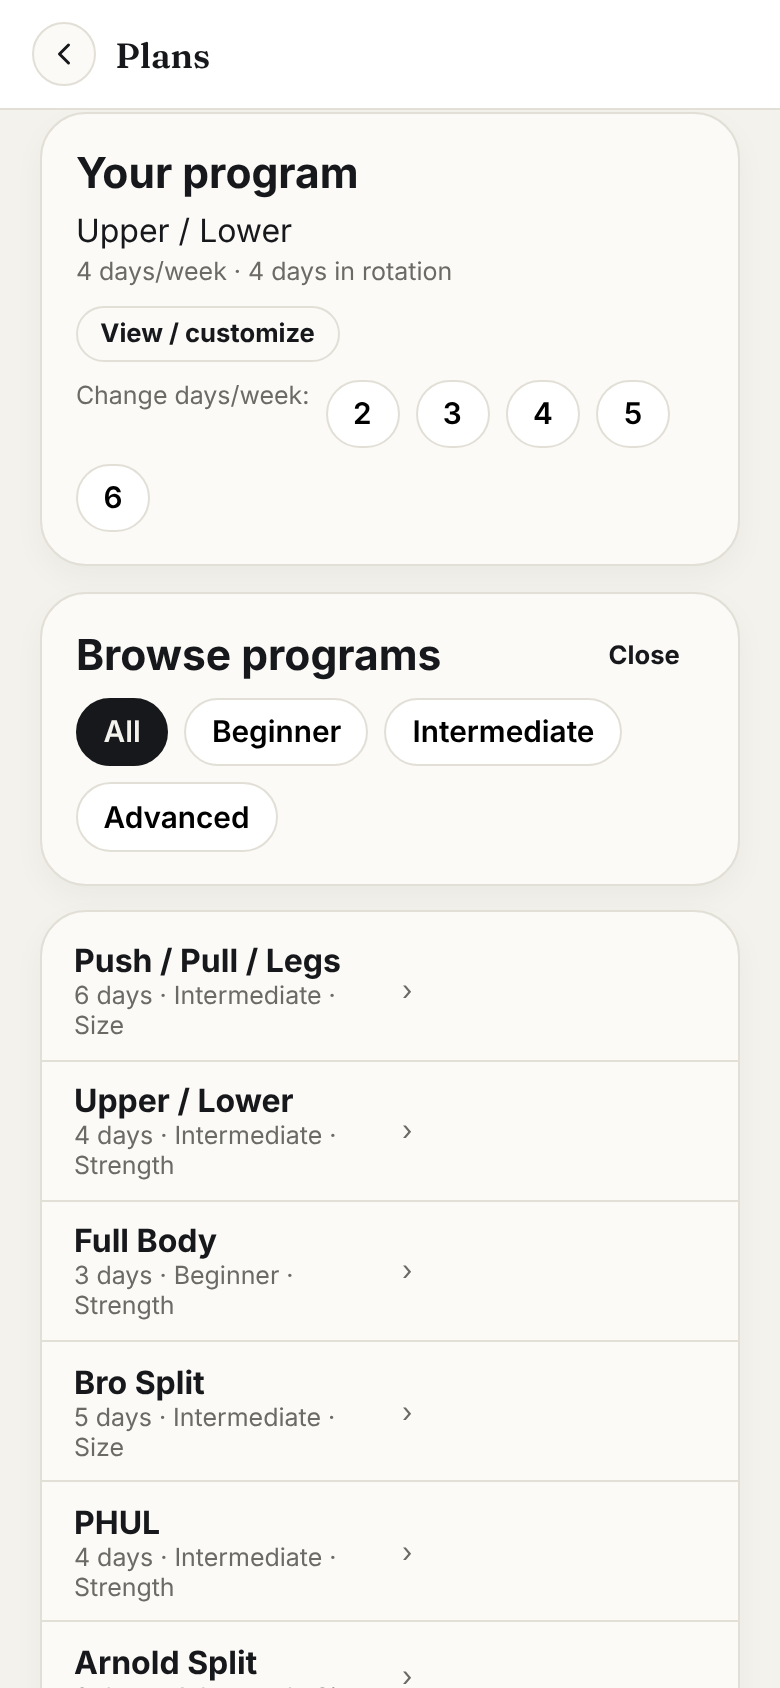
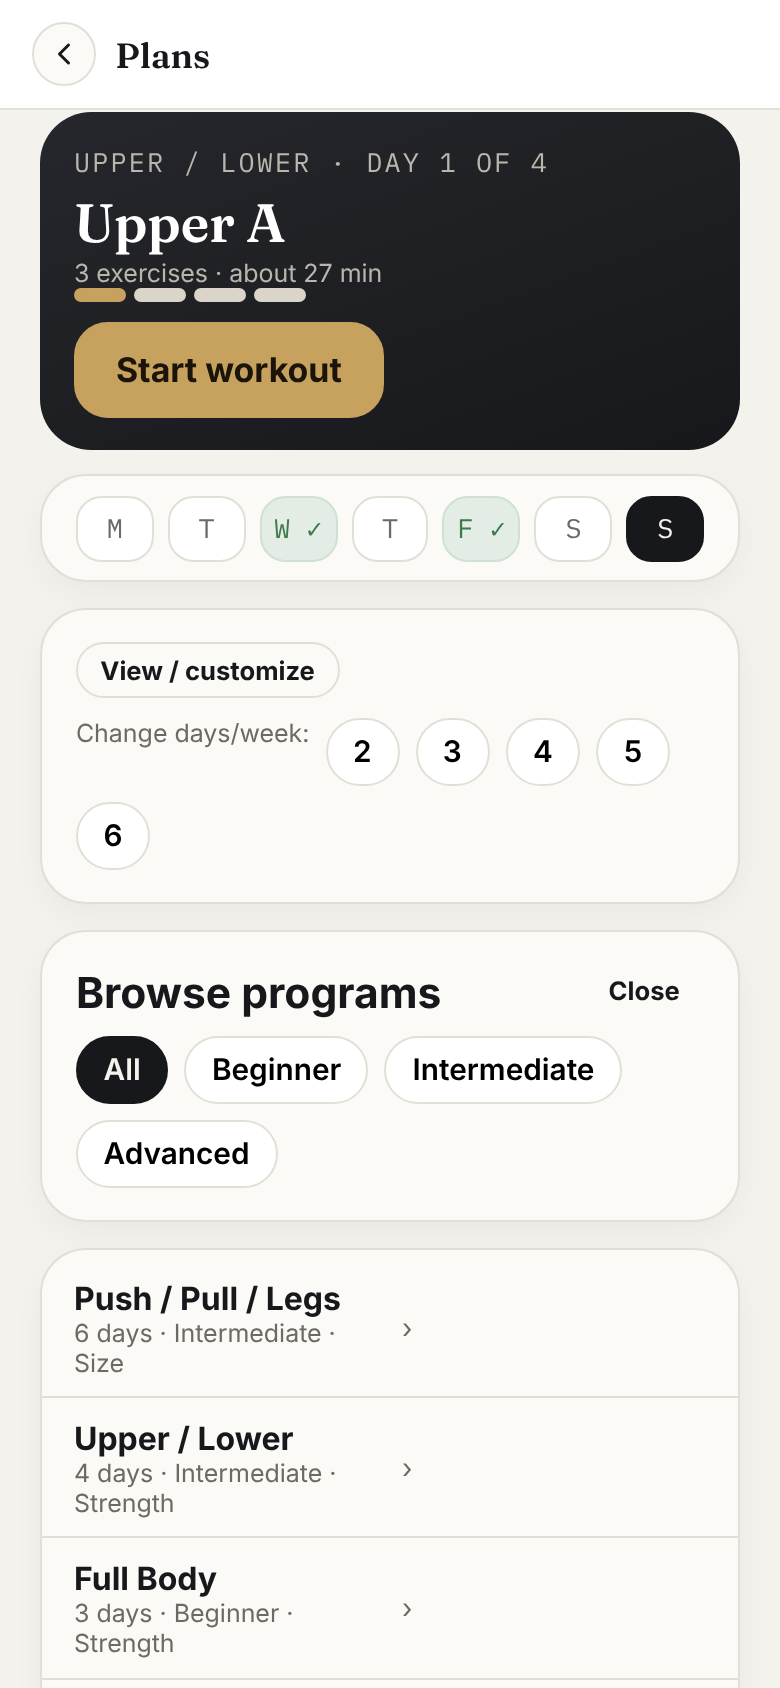
Fidelity pass: Section 2 (Plans) - dark hero card, week strip, day dots, program preview restructure
Plans hub "Your program" card rebuilt as a dark gradient hero (component
I/J: week strip + day-rotation dots) with a gold Start/Continue button
wired through the same startOrContinueWorkoutFromCard() path as Today's
card, matching the mockup's structure instead of a plain stat card.

Program preview (browsing a template) restructured from an inline full
exercise dump per day into compact day-summary cards (muscle regions +
exercise count) that expand on tap, plus equipment chips derived from
the exercise catalog - matches the mockup's drill-in convention instead
of dumping every set/rep row up front.

Claude-Session: https://claude.ai/code/session_015L9cyNh1v2vMK9ZcFbmR4a

diff --git a/index.html b/index.html
@@ -891,6 +891,26 @@
   .ring-progress::after { content: attr(data-t); position: absolute; inset: 0.27rem; border-radius: 50%; background: var(--surface-2); display: flex; align-items: center; justify-content: center; }
   .ring-none { background: var(--surface-3); color: var(--text-dim); }
 
+  /* Week strip (component I): 7 cells, mockup 9.5px mono, radius 9px,
+     gap 5px, x1.4234. Today = ink fill; done = ok-green fill. */
+  .week-strip { display: flex; gap: 0.44rem; }
+  .week-strip > div { flex: 1; text-align: center; font-family: var(--font-mono); font-size: 0.84rem; font-weight: 500;
+    padding: 0.4rem 0; border-radius: 0.8rem; background: #fff; border: 1px solid var(--border); color: var(--text-dim); }
+  .week-strip > div.wk-today { background: var(--text); color: var(--bg); border-color: var(--text); }
+  .week-strip > div.wk-done { background: #E3EDE6; color: var(--success); border-color: #CFE0D4; }
+
+  /* Day dots (component J): rotation-position indicator on a program's
+     dark hero card. Mockup 18x5px, radius 3px, x1.4234. */
+  .day-dots { display: flex; gap: 0.28rem; }
+  .day-dots i { width: 1.6rem; height: 0.44rem; border-radius: 0.27rem; background: #DAD5C8; display: block; font-style: normal; }
+  .day-dots i.dd-done { background: var(--accent); }
+  .day-dots i.dd-next { background: var(--gold); }
+
+  /* Dark hero card (used for the active-program summary) - mockup
+     linear-gradient(160deg,#25272C,#17181B), radius 18px x1.4234 -> 26px. */
+  .dark-hero-card { background: linear-gradient(160deg, #25272C, #17181B); color: #fff; border-radius: 1.6rem; padding: 1rem 1.06rem; margin-bottom: 0.8rem; }
+  .dark-hero-card .muted { color: #B9B6AD; }
+
   /* ── Lists ────────────────────────────────────────────────────── */
   .log-row { display: flex; align-items: center; justify-content: space-between; padding: 0.6rem 0; border-bottom: 1px solid var(--border); gap: 0.75rem; }
   .log-row:last-child { border-bottom: none; }
@@ -4911,6 +4931,51 @@ function homeWidgetHtml(key, ctx) {
 // card, not a second copy of that breakdown.
 let todaysLiftChangeMenuOpen = false;
 
+// Shared by Today's Lift card and the Plans hub's active-program card -
+// same "jump into the live workout, program never required" behavior
+// wherever a "Start"/"Continue" button for today's lift appears.
+// Week strip (component I): this calendar week, Mon-Sun, which days have
+// a logged lift and which is today.
+function weekStripHtml() {
+  const todayStr = localDateStr();
+  const base = new Date(`${todayStr}T00:00:00`);
+  const monday = new Date(base);
+  monday.setDate(base.getDate() - ((base.getDay() + 6) % 7));
+  const loggedDates = new Set(state.lifts.map((l) => l.date));
+  const labels = ['M', 'T', 'W', 'T', 'F', 'S', 'S'];
+  return `<div class="week-strip">${labels.map((lbl, i) => {
+    const cellDate = new Date(monday);
+    cellDate.setDate(monday.getDate() + i);
+    const cellStr = localDateStr(cellDate);
+    const isToday = cellStr === todayStr;
+    const isDone = loggedDates.has(cellStr);
+    const cls = isToday ? 'wk-today' : (isDone ? 'wk-done' : '');
+    return `<div class="${cls}">${lbl}${isDone ? ' &#10003;' : ''}</div>`;
+  }).join('')}</div>`;
+}
+
+// Day dots (component J): position within the block's rotation - days
+// before today's index read as completed rounds, today's index as next.
+function dayDotsHtml(block, todaysDayIndex) {
+  if (!block?.blockDays?.length || todaysDayIndex == null) return '';
+  return `<div class="day-dots">${block.blockDays.map((_, i) => {
+    const cls = i < todaysDayIndex ? 'dd-done' : (i === todaysDayIndex ? 'dd-next' : '');
+    return `<i class="${cls}"></i>`;
+  }).join('')}</div>`;
+}
+
+function startOrContinueWorkoutFromCard() {
+  showPlanBuilder = false;
+  showBlockBuilder = false;
+  showExerciseGlossary = false;
+  showPlansHub = false;
+  liftsSelectedExercise = null;
+  liveWorkoutScreen = (liveWorkoutSession && liveWorkoutSession.date === localDateStr() && liveWorkoutSession.exercises?.length) ? 'overview' : 'start';
+  startLiveWorkoutTicker();
+  renderLiftsTab();
+  setActiveTab('lifts');
+}
+
 function todaysLiftSummaryHtml() {
   const ctx = computeTodaysLiftCtx();
   const activeBlock = state.profile?.active_training_block;
@@ -5822,21 +5887,7 @@ function renderDashboard() {
   if (mealsPrevToggle) mealsPrevToggle.addEventListener('click', () => { mealsPreviousDaysExpanded = !mealsPreviousDaysExpanded; renderDashboard(); });
 
   const liftCardBtn = $('#todaysLiftCardBtn', panel);
-  if (liftCardBtn) liftCardBtn.addEventListener('click', () => {
-    showPlanBuilder = false;
-    showBlockBuilder = false;
-    showExerciseGlossary = false;
-    liftsSelectedExercise = null;
-    // A live workout in progress (or already started today) goes straight
-    // back to its overview; otherwise into the quick-workout picker. A
-    // program is never required for either path. (liveWorkoutSession is
-    // already resumed from localStorage at app boot — see wlsResume() in
-    // bootstrapApp — so this just checks the in-memory state, not storage again.)
-    liveWorkoutScreen = (liveWorkoutSession && liveWorkoutSession.date === localDateStr() && liveWorkoutSession.exercises?.length) ? 'overview' : 'start';
-    startLiveWorkoutTicker();
-    renderLiftsTab();
-    setActiveTab('lifts');
-  });
+  if (liftCardBtn) liftCardBtn.addEventListener('click', startOrContinueWorkoutFromCard);
   const programsLink = $('#todaysLiftProgramsLink', panel);
   if (programsLink) programsLink.addEventListener('click', () => {
     showPlansHub = true;
@@ -14605,6 +14656,7 @@ function programTemplateToBlock(template) {
 let showPlansHub = false;
 let plansHubFilterLevel = '';
 let plansHubPreviewId = null; // a PROGRAM_TEMPLATES id, or null when showing the hub list
+let programPreviewExpandedDay = null; // index into template.schedule, or null - reset each time a template preview opens
 let plansHubChangeDaysTargetId = null; // 5d: a candidate template id being previewed as a day-count change
 
 let showBlockBuilder = false;
@@ -15251,12 +15303,22 @@ function renderPlansHub(panel) {
     ? [...new Set(PROGRAM_TEMPLATES.filter((p) => p.id !== active.sourceProgramId).map((p) => p.days))].sort((a, b) => a - b)
     : [];
 
+  const activeOverrides = active ? pruneScheduleOverrides(state.profile?.schedule_overrides_this_week) : null;
+  const activeTodaysDayIndex = active ? effectiveBlockDayIndex(active, localDateStr(), activeOverrides) : null;
+  const activeTodaysDay = activeTodaysDayIndex != null ? active.blockDays[activeTodaysDayIndex] : null;
+  const activeCtx = active ? computeTodaysLiftCtx() : null;
+  const activeStartLabel = activeCtx && !activeCtx.empty && !activeCtx.ended ? 'Continue' : (activeCtx && !activeCtx.empty && activeCtx.ended ? 'View' : 'Start workout');
   panel.innerHTML = `
-    ${active ? `<div class="card">
-      <h3 style="margin-top:0;">Your program</h3>
-      <p style="margin:0;">${esc(active.sourceProgramName || active.focus)}</p>
-      <p class="muted small" style="margin:0.2rem 0 0;">${active.days} day${active.days === 1 ? '' : 's'}/week &middot; ${active.blockDays.length} day${active.blockDays.length === 1 ? '' : 's'} in rotation</p>
-      <button class="btn btn-sm" id="plansHubViewActiveBtn" style="margin-top:0.6rem;">View / customize</button>
+    ${active ? `<div class="dark-hero-card">
+      <div class="muted mono" style="font-size:0.84rem;text-transform:uppercase;letter-spacing:0.08em;">${esc(active.sourceProgramName || active.focus)}${active.blockDays.length ? ` &middot; day ${(activeTodaysDayIndex ?? 0) + 1} of ${active.blockDays.length}` : ''}</div>
+      ${activeTodaysDay ? `<div class="display" style="font-size:1.69rem;margin:0.3rem 0 0.1rem;color:#fff;">${esc(activeTodaysDay.label)}</div>
+        <div class="muted small">${activeTodaysDay.exercises.length} exercise${activeTodaysDay.exercises.length === 1 ? '' : 's'} &middot; about ${Math.round(activeTodaysDay.exercises.length * 9)} min</div>` : ''}
+      ${dayDotsHtml(active, activeTodaysDayIndex)}
+      <button class="btn btn-gold" id="plansHubStartBtn" style="margin-top:0.6rem;">${esc(activeStartLabel)}</button>
+    </div>
+    <div class="card" style="padding:0.6rem 1.06rem;">${weekStripHtml()}</div>
+    <div class="card">
+      <button class="btn btn-sm" id="plansHubViewActiveBtn">View / customize</button>
       ${active.sourceProgramId ? `
         <div class="chip-row" style="margin-top:0.6rem;">
           <span class="muted small">Change days/week:</span>
@@ -15295,6 +15357,8 @@ function renderPlansHub(panel) {
     showBlockBuilder = true;
     renderLiftsTab();
   });
+  const startBtn = $('#plansHubStartBtn', panel);
+  if (startBtn) startBtn.addEventListener('click', () => { showPlansHub = false; startOrContinueWorkoutFromCard(); });
   $$('[data-plans-change-days]', panel).forEach((btn) => btn.addEventListener('click', () => {
     const targetDays = Number(btn.dataset.plansChangeDays);
     // Prefer a candidate matching the current program's goal, else the
@@ -15309,6 +15373,7 @@ function renderPlansHub(panel) {
   }));
   $$('[data-plans-open]', panel).forEach((row) => row.addEventListener('click', () => {
     plansHubPreviewId = row.dataset.plansOpen;
+    programPreviewExpandedDay = null;
     renderLiftsTab();
   }));
 }
@@ -15362,17 +15427,33 @@ function renderChangeDaysPreview(panel) {
 function renderProgramPreview(panel, templateId) {
   const template = PROGRAM_TEMPLATES.find((p) => p.id === templateId);
   if (!template) { plansHubPreviewId = null; renderPlansHub(panel); return; }
+  const allExerciseNames = [...new Set(template.schedule.flatMap((d) => d.exercises.map((e) => e.name)))];
+  const equipmentChips = [...new Set(allExerciseNames.map((n) => exerciseDefFor(n)?.equipment).filter(Boolean))];
+  const dayMuscles = (day) => [...new Set(day.exercises.map((e) => {
+    const region = exerciseDefFor(e.name)?.body_region || DEFAULT_BODY_REGION[e.name];
+    return region ? (BODY_REGION_LABELS[region] || region) : null;
+  }).filter(Boolean))];
   panel.innerHTML = `
-    <button class="btn btn-sm btn-ghost" id="programPreviewBackBtn">&#8249; Programs</button>
+    <button class="btn-link" id="programPreviewBackBtn" style="text-transform:none;text-decoration:underline;">&#8249; Programs</button>
+    <div class="pagetitle" style="margin:0.2rem 0 0.1rem;">${esc(template.name)}</div>
+    <p class="muted" style="margin:0 0 0.8rem;">${template.days} days &middot; ${esc(template.level)} &middot; ${esc(template.goal)}</p>
     <div class="card">
-      <h3 style="margin-top:0;">${esc(template.name)}</h3>
-      <p class="muted small" style="margin:0;">${template.days} days/week &middot; ${esc(template.level)} &middot; ${esc(template.goal)}</p>
-      <p style="margin-top:0.5rem;">${esc(template.description)}</p>
+      <p style="margin:0;">${esc(template.description)}</p>
+      ${equipmentChips.length ? `<div class="chip-row" style="margin-top:0.6rem;">${equipmentChips.map((eq) => `<span class="chip" style="cursor:default;">${esc(eq)}</span>`).join('')}</div>` : ''}
     </div>
-    ${template.schedule.map((day) => `
-      <div class="card">
-        <h3 style="margin-top:0;">${esc(day.label)}</h3>
-        ${day.exercises.map((ex) => `<div class="row" style="justify-content:space-between;padding:0.3rem 0;"><span>${esc(ex.name)}</span><span class="mono muted small">${ex.sets} &times; ${esc(ex.reps)}</span></div>`).join('')}
+    ${template.schedule.map((day, i) => `
+      <div class="card" data-program-preview-day="${i}" style="cursor:pointer;">
+        <div class="row" style="justify-content:space-between;align-items:center;flex-wrap:nowrap;">
+          <div style="min-width:0;">
+            <h3 style="margin:0;">${esc(day.label)}</h3>
+            <p class="muted small" style="margin:0.1rem 0 0;">${esc(dayMuscles(day).map((m, i) => i === 0 ? m : m.toLowerCase()).join(', ') || 'Full body')} &middot; ${day.exercises.length} ex</p>
+          </div>
+          <span class="muted" style="flex:none;min-width:0;">${programPreviewExpandedDay === i ? '&#8963;' : '&rsaquo;'}</span>
+        </div>
+        ${programPreviewExpandedDay === i ? `
+          <div style="margin-top:0.6rem;border-top:1px solid var(--border);padding-top:0.6rem;">
+            ${day.exercises.map((ex) => `<div class="row" style="justify-content:space-between;padding:0.3rem 0;"><span>${esc(ex.name)}</span><span class="mono muted small">${ex.sets} &times; ${esc(ex.reps)}</span></div>`).join('')}
+          </div>` : ''}
       </div>`).join('')}
     <div class="row" style="gap:0.5rem;">
       <button class="btn" id="programPreviewCustomizeBtn" style="flex:1;">Customize</button>
@@ -15382,6 +15463,11 @@ function renderProgramPreview(panel, templateId) {
   $('#programPreviewBackBtn').addEventListener('click', () => { plansHubPreviewId = null; renderLiftsTab(); });
   $('#programPreviewCustomizeBtn').addEventListener('click', () => startProgramTemplate(template, true));
   $('#programPreviewStartBtn').addEventListener('click', () => startProgramTemplate(template, false));
+  $$('[data-program-preview-day]', panel).forEach((card) => card.addEventListener('click', () => {
+    const i = Number(card.dataset.programPreviewDay);
+    programPreviewExpandedDay = programPreviewExpandedDay === i ? null : i;
+    renderLiftsTab();
+  }));
 }
 
 // "A program is always copied before it's edited, so the original is
